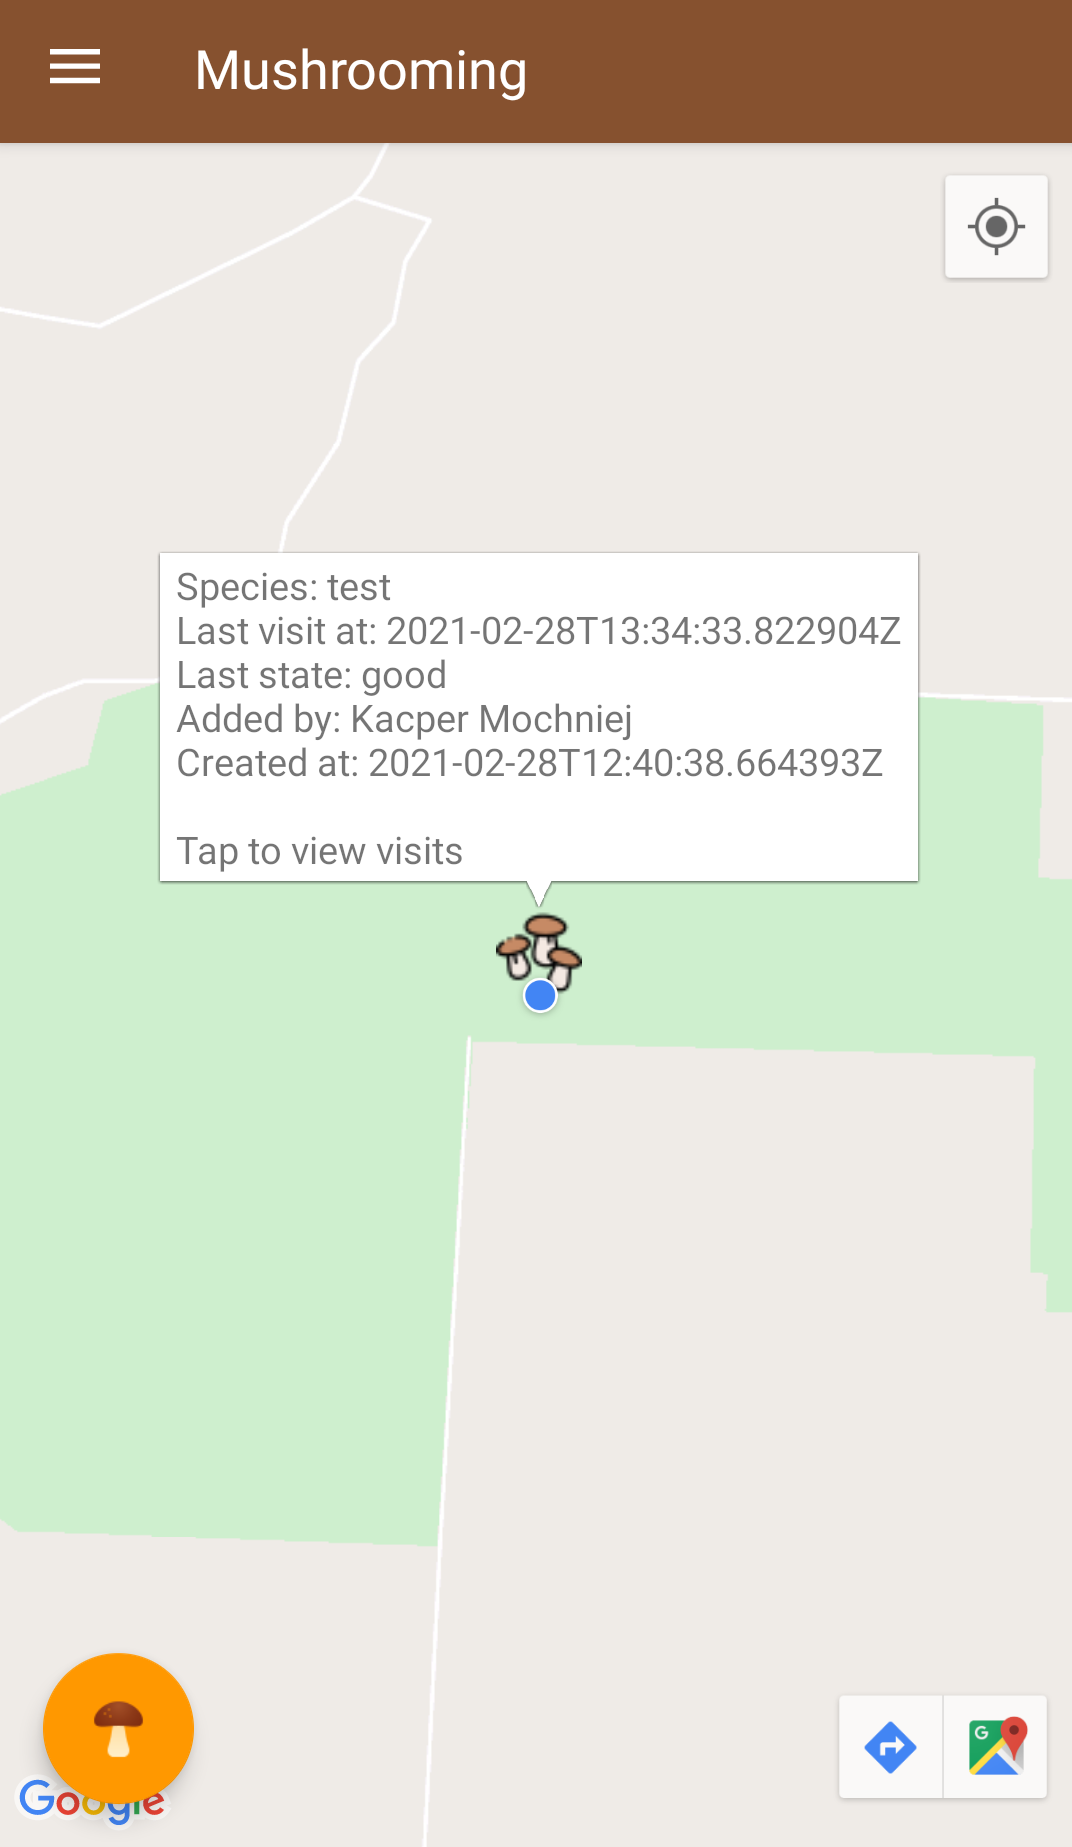
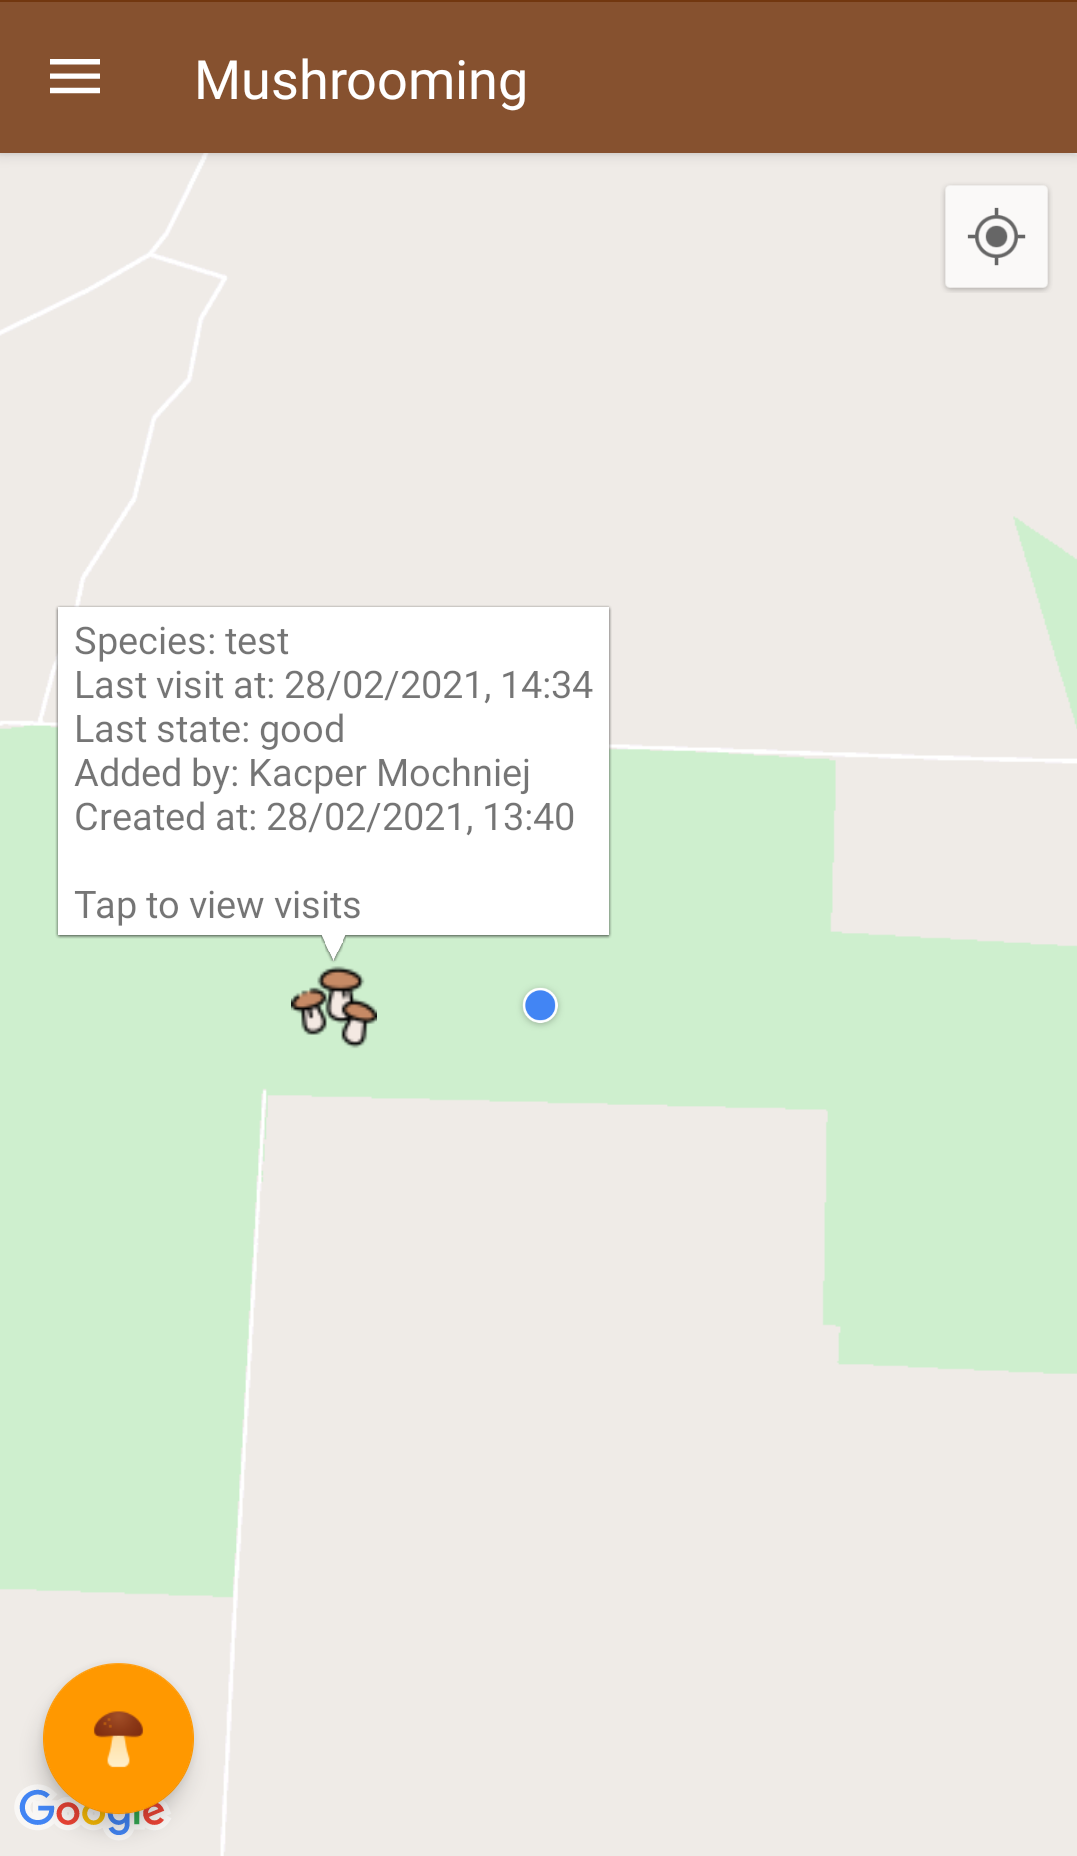
fixes
fix location service and date format

diff --git a/app/src/main/java/com/kacper/mushrooming/view/main/MainActivity.kt b/app/src/main/java/com/kacper/mushrooming/view/main/MainActivity.kt
@@ -88,19 +88,19 @@ class MainActivity : AppCompatActivity(), NavigationView.OnNavigationItemSelecte
             .findFragmentById(R.id.map) as SupportMapFragment
         mapFragment.getMapAsync { googleMap ->
             mMap = googleMap
-            mMap.let{
-            tracker = LocationTracker(it, this)
-            it.moveCamera(CameraUpdateFactory.zoomTo(13f))
-            it.setMinZoomPreference(10f)
-            getSpots(it.projection.visibleRegion.latLngBounds)
-            it.setOnCameraIdleListener(tracker)
-            it.setInfoWindowAdapter(InfoWindowAdapter(this))
-            it.setOnInfoWindowClickListener { marker ->
-                VisitsDialog(visitsToString((marker.tag as FindResponse).visits)).show(
-                    supportFragmentManager,
-                    "Visits"
-                )
-            }}
+            mMap.let {
+                it.moveCamera(CameraUpdateFactory.zoomTo(13f))
+                tracker = LocationTracker(it, this)
+                it.setMinZoomPreference(10f)
+                it.setOnCameraIdleListener(tracker)
+                it.setInfoWindowAdapter(InfoWindowAdapter(this))
+                it.setOnInfoWindowClickListener { marker ->
+                    VisitsDialog(visitsToString((marker.tag as FindResponse).visits)).show(
+                        supportFragmentManager,
+                        "Visits"
+                    )
+                }
+            }
             launchMyLocation(true)
         }
     }
@@ -196,13 +196,12 @@ class MainActivity : AppCompatActivity(), NavigationView.OnNavigationItemSelecte
     }
 
     fun checkVisit(loc: LatLng?) {
-        if (supportFragmentManager.findFragmentByTag("Visit") == null && finds.isNotEmpty()) {
-            getFindInRange(loc)?.let { find ->
-                if (find.visits
-                        .none { visit -> visit.userId == authenticationResponse!!.id }
-                ) VisitDialog(controller, find.id).show(supportFragmentManager, "Visit")
+            if (supportFragmentManager.findFragmentByTag("Visit")==null && finds.isNotEmpty()) {
+                getFindInRange(loc)?.let { find ->
+                    if (find.visits.none { visit -> visit.userId == authenticationResponse!!.id }
+                    ) VisitDialog(controller, find.id).show(supportFragmentManager, "Visit")
+                }
             }
-        }
     }
 
     private val isServiceRunning: Boolean

diff --git a/app/src/main/java/com/kacper/mushrooming/view/main/map/LocationTracker.kt b/app/src/main/java/com/kacper/mushrooming/view/main/map/LocationTracker.kt
@@ -26,7 +26,8 @@ class LocationTracker(private val mMap: GoogleMap, private val activity: MainAct
             if (result.lastLocation != null)
                 location = LatLng(result.lastLocation.latitude, result.lastLocation.longitude)
             if (mMap.projection.visibleRegion.latLngBounds.contains(location) && prev != location
-                || !::prev.isInitialized) {
+                || !::prev.isInitialized
+            ) {
                 mMap.moveCamera(CameraUpdateFactory.newLatLng(location))
                 activity.checkVisit(location)
             }
@@ -43,10 +44,8 @@ class LocationTracker(private val mMap: GoogleMap, private val activity: MainAct
     override fun onCameraIdle() {
         stop = mMap.projection.visibleRegion.latLngBounds
         if ((!start.contains(stop.northeast) || !start.contains(stop.southwest))
-            && (getDistance(start.northeast, stop.northeast) || getDistance(
-                start.southwest,
-                stop.southwest
-            ))
+            && (getDistance(start.northeast, stop.northeast) ||
+                    getDistance(start.southwest, stop.southwest))
         ) {
             if (!start.contains(stop.northeast) && !start.contains(stop.southwest)) {
                 start = stop

diff --git a/app/src/main/java/com/kacper/mushrooming/api/dto/FindResponse.kt b/app/src/main/java/com/kacper/mushrooming/api/dto/FindResponse.kt
@@ -12,7 +12,8 @@ class FindResponse(val id: Long,
                    createdDate: String,
                    val visits: MutableList<VisitResponse>) {
 
-    private val createdDate = formatDate(createdDate)
+    private var createdDate = createdDate
+    get() = formatDate(field)
 
     override fun toString(): String {
         val lastVisit: String

diff --git a/app/src/main/java/com/kacper/mushrooming/api/dto/VisitResponse.kt b/app/src/main/java/com/kacper/mushrooming/api/dto/VisitResponse.kt
@@ -12,7 +12,8 @@ class VisitResponse(
         private val count: Int,
         visitedAt: String)
 {
-    val visitedAt = formatDate(visitedAt)
+    var visitedAt = visitedAt
+    get() = formatDate(field)
 
     override fun toString(): String {
         return """${get(R.string.visit_author)} $user
